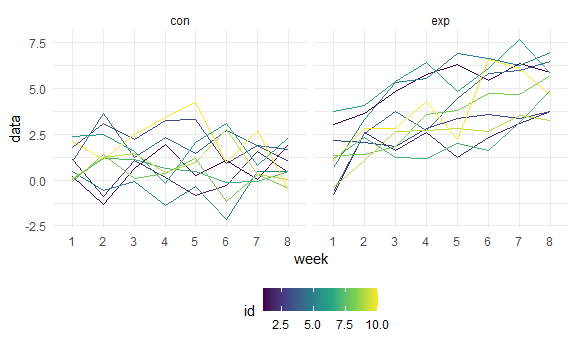
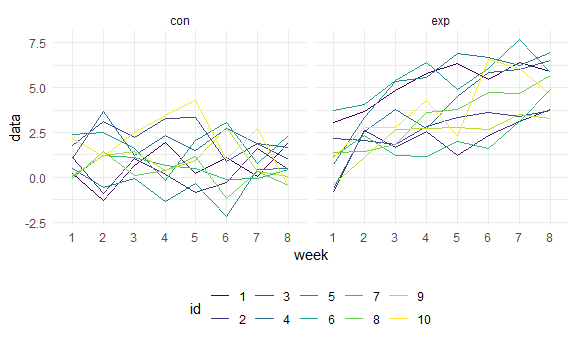
Job Done

diff --git a/p8105_hw5_yl4604.md b/p8105_hw5_yl4604.md
@@ -326,15 +326,20 @@ file_tidy =
   relocate(id)
 ```
 
-Plot ???what is spaghetti plot?
+Plot
 
 ``` r
-file_tidy %>% 
+file_tidy %>%
+  mutate(id = as.factor(id)) %>% 
   ggplot(aes(x = week, y = data,group = id, color = id))+ geom_line()+
   facet_grid(~type)
 ```
 
 <img src="p8105_hw5_yl4604_files/figure-markdown_github/unnamed-chunk-5-1.png" width="90%" />
+
+The control arm's overal level is lower than experiment arm.
+
+There is a uptrend in the experiment arm but no such trend in control arm.
 
 Problem 3
 ---------
@@ -359,9 +364,9 @@ samp_mean_tt(30, 0, 5)
 ```
 
     ## # A tibble: 1 x 2
-    ##    mean p_value
-    ##   <dbl>   <dbl>
-    ## 1  1.48   0.123
+    ##     mean p_value
+    ##    <dbl>   <dbl>
+    ## 1 -0.826   0.282
 
 simulation on mu = 0
 
@@ -431,4 +436,4 @@ combined_data %>%
 
 <img src="p8105_hw5_yl4604_files/figure-markdown_github/unnamed-chunk-10-1.png" width="90%" />
 
-comparing to sample average of all samples, the sample average of μ^ across tests for which the null is rejected are slightly bigger than true value of μ. This is because
+comparing to sample average of all samples, the sample average of μ^ across tests for which the null is rejected are slightly bigger especially when true mean is relatively small. This is because the smaller the effect size, the small the power, so some false null hypothesis were filed to reject.
